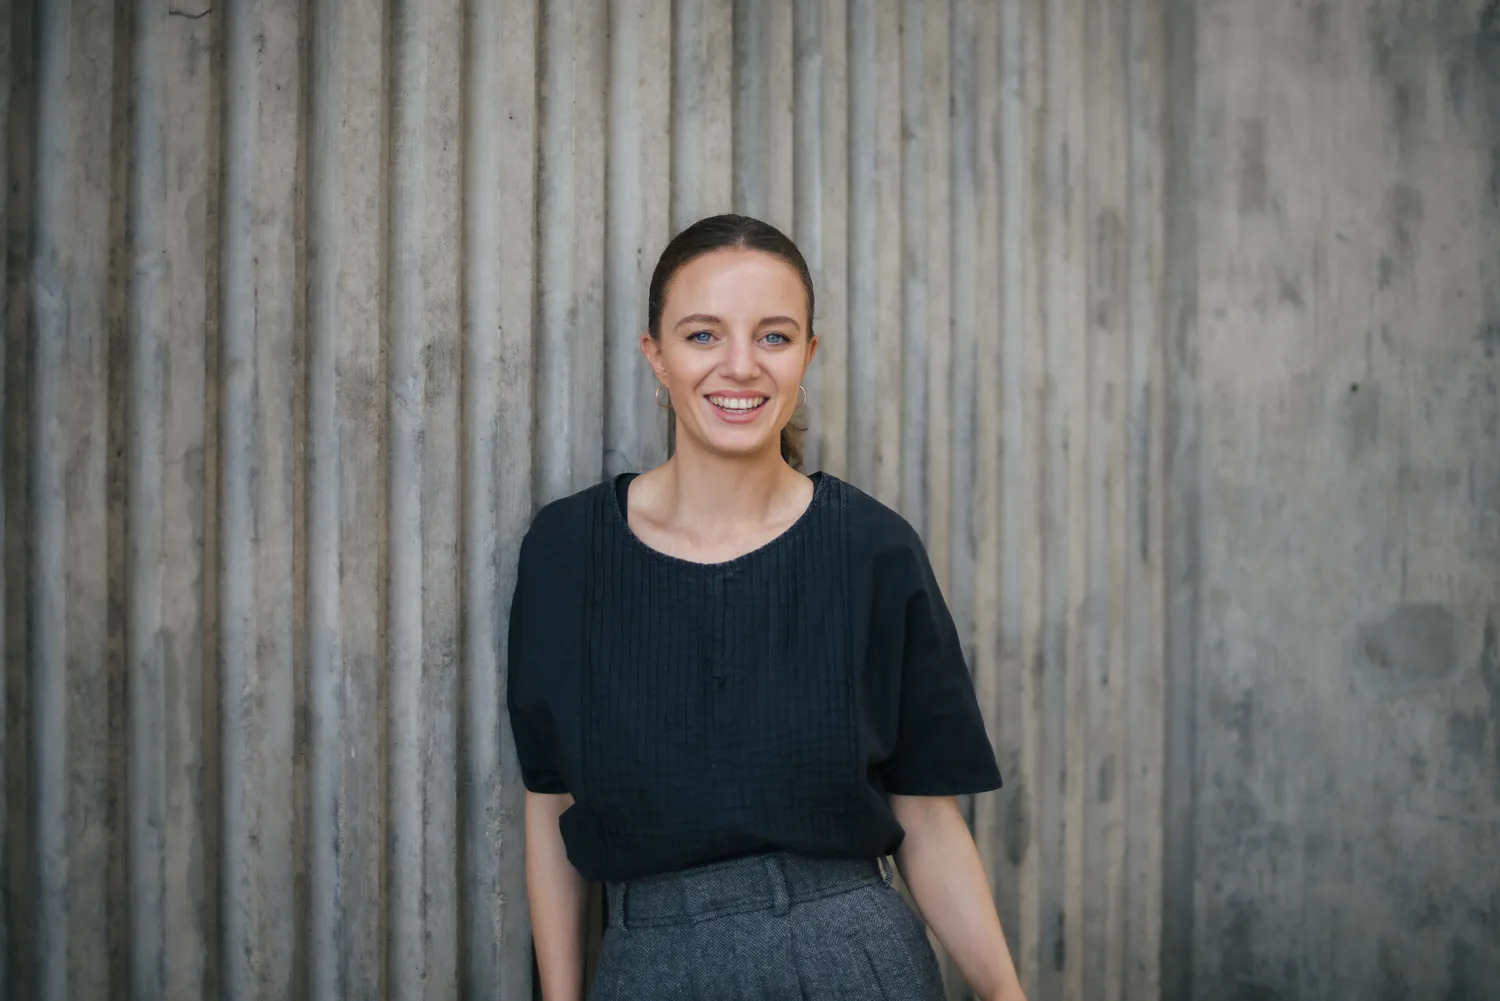
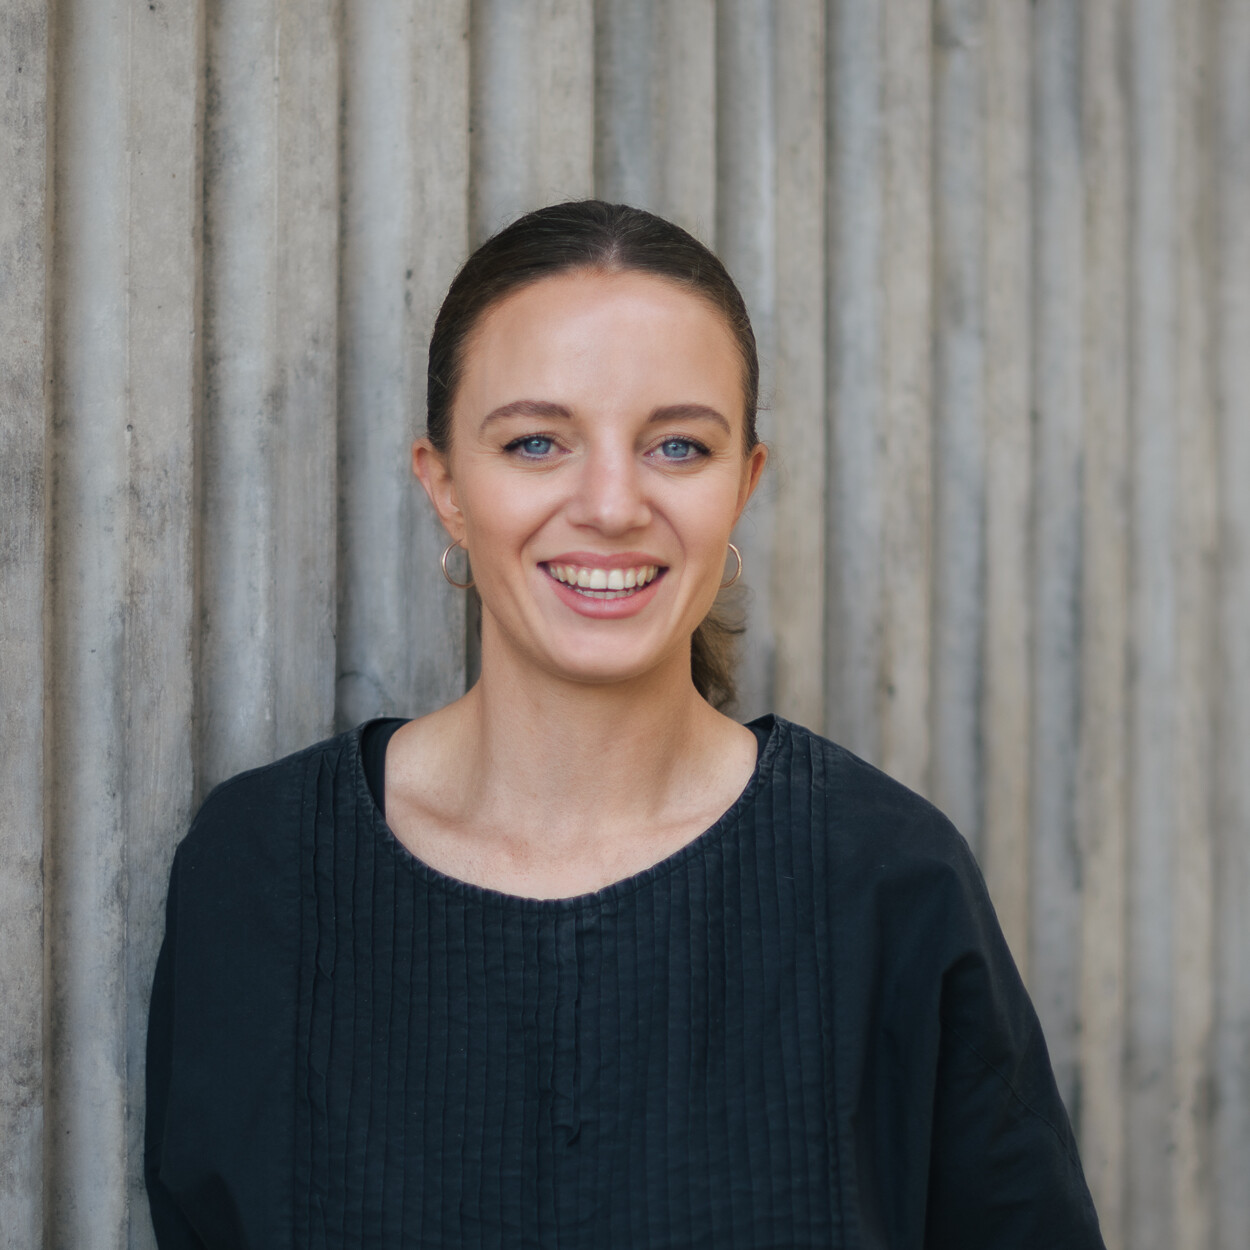
pruned back profiles

diff --git a/content/people/hugh/index.md b/content/people/hugh/index.md
@@ -3,29 +3,13 @@ title: "Hugh Tennent"
 date: 2026-09-16
 ---
 
-Hugh Tennent FNZIA studied architecture at the University of Auckland,
-graduating in 1984, and was made a Fellow of Te Kāhui Whaihanga / the New
-Zealand Institute of Architects in 2001. In 2003 he and Ewan Brown founded
-[Tennent Brown Architects](https://tennentbrown.co.nz/) in Te Whanganui-a-Tara,
-a practice built on equity and social justice that works across ngā motu on
-large public and commercial projects.
+Architect and design director at [Tennent Brown Architects](https://tennentbrown.co.nz/),
+Te Whanganui-a-Tara. Joint recipient, with Ewan Brown, of the 2024 Te Kāhui
+Whaihanga NZIA Gold Medal.
 
-Hugh is design director for the practice, responsible for the design direction
-of all its major projects and recognised for his responsiveness to context and
-environment. He is particularly known for work across cultures and for te ao
-Māori — Pā Reo at Te Wānanga o Raukawa, Te Kura Whenua for Ngāi Tūhoe at
-Waikaremoana, Ngā Mokopuna at Te Herenga Waka — as well as education,
-reflective and religious space, and sports buildings. He lectures, tutors and
-critiques regularly at the Victoria University of Wellington School of
-Architecture.
+Profile: [ArchitectureNow](https://architecturenow.co.nz/contributors/Tennent-Hugh/) ·
+[2024 Gold Medal citation, Te Kāhui Whaihanga NZIA](https://www.nzia.co.nz/awards/gold-medal/2024-gold-medal-hugh-tennent-and-ewan-brown/)
 
-In 2024 Hugh and Ewan were jointly awarded the NZIA Gold Medal, the Institute's
-highest honour, for a body of work spanning 22 years and 75 NZIA awards, and
-for leading a practice at the vanguard of radical sustainability and bicultural
-collaboration. Tennent Brown was the first Aotearoa practice to obtain a JUST
-label for social justice (2018) and the first to achieve B Corp certification
-(2022).
-
-*Photo: Catherine Cattanach, via [Te Kāhui Whaihanga NZIA — 2024 Gold Medal](https://www.nzia.co.nz/awards/gold-medal/2024-gold-medal-hugh-tennent-and-ewan-brown/)
-(cropped from a portrait of both recipients; identified per
-[ArchitectureNow](https://architecturenow.co.nz/articles/joining-forces-for-good/)).*
+*Photo: Catherine Cattanach, via [Te Kāhui Whaihanga NZIA](https://www.nzia.co.nz/awards/gold-medal/2024-gold-medal-hugh-tennent-and-ewan-brown/)
+— cropped from a portrait of both Gold Medal recipients; left/right identified per
+[ArchitectureNow](https://architecturenow.co.nz/articles/joining-forces-for-good/).*

diff --git a/content/people/ewan/index.md b/content/people/ewan/index.md
@@ -3,27 +3,13 @@ title: "Ewan Brown"
 date: 2026-09-16
 ---
 
-Ewan Brown FNZIA is a director of
-[Tennent Brown Architects](https://tennentbrown.co.nz/), the Te
-Whanganui-a-Tara practice he founded with Hugh Tennent in 2003. His leadership
-has propelled the practice into becoming a sustainability innovator: Tennent
-Brown was the first Aotearoa practice to obtain a JUST label for social justice
-(2018), a founding member of The Diversity Agenda, and the first architecture
-practice in the country to achieve B Corp certification (2022).
+Architect and director at [Tennent Brown Architects](https://tennentbrown.co.nz/),
+Te Whanganui-a-Tara. Joint recipient, with Hugh Tennent, of the 2024 Te Kāhui
+Whaihanga NZIA Gold Medal.
 
-Ewan has driven the practice's work under the Living Building Challenge — one
-of the world's most demanding sustainability standards — on projects including
-Te Wharehou o Waikaremoana, Pā Reo and Te Kāhui Tapuwae / The Living Pā,
-building a repository of LBC-compliant material knowledge along the way. In
-association with Hugh Tennent, his collaborative efforts push boundaries and
-reshape industry standards, guiding projects toward community wellbeing,
-environmental harmony and carbon neutrality.
+Profile: [Tennent Brown](https://tennentbrown.co.nz/news/ewan-brown-presidents-award) ·
+[2024 Gold Medal citation, Te Kāhui Whaihanga NZIA](https://www.nzia.co.nz/awards/gold-medal/2024-gold-medal-hugh-tennent-and-ewan-brown/)
 
-In 2024 Ewan and Hugh were jointly awarded the NZIA Gold Medal, Te Kāhui
-Whaihanga's highest honour, recognising 22 years of practice, 75 NZIA awards,
-and their role as early adopters and risk takers in the profession's response
-to the climate crisis.
-
-*Photo: Catherine Cattanach, via [Te Kāhui Whaihanga NZIA — 2024 Gold Medal](https://www.nzia.co.nz/awards/gold-medal/2024-gold-medal-hugh-tennent-and-ewan-brown/)
-(cropped from a portrait of both recipients; identified per
-[ArchitectureNow](https://architecturenow.co.nz/articles/joining-forces-for-good/)).*
+*Photo: Catherine Cattanach, via [Te Kāhui Whaihanga NZIA](https://www.nzia.co.nz/awards/gold-medal/2024-gold-medal-hugh-tennent-and-ewan-brown/)
+— cropped from a portrait of both Gold Medal recipients; left/right identified per
+[ArchitectureNow](https://architecturenow.co.nz/articles/joining-forces-for-good/).*

diff --git a/content/people/emily-newmarch/index.md b/content/people/emily-newmarch/index.md
@@ -3,27 +3,9 @@ title: "Dr Emily Newmarch"
 date: 2026-09-16
 ---
 
-Dr Emily Newmarch is Sustainability Lead and Low Carbon Design Specialist at
-[Warren and Mahoney](https://wam.studio/), where she works as a translator
-between technical sustainability data and the creative opportunities that are
-best for a project. She holds a PhD in embodied carbon from Te Herenga Waka
-Victoria University of Wellington, and helped develop the practice's *Go Zero*
-low carbon design guide.
+Sustainability Lead and Low Carbon Design Specialist at
+[Warren and Mahoney](https://wam.studio/).
 
-In 2025 Emily was awarded the overall Supreme Award at the Property Council New
-Zealand People Awards in recognition of her impact in translating PhD-level
-climate research into practical low-carbon design solutions across sectors from
-health to aviation. Selected as the standout achiever across all categories,
-and also recipient of the Young Achiever Award, she is redefining what
-sustainable design leadership looks like in Aotearoa.
+Profile: [Warren and Mahoney](https://wam.studio/people/emily-newmarch)
 
-One of her favourite projects, Te Huhi Raupō — the Taranaki Hospital renal unit
-— is small but packs a big punch: it is set to be among the first in the world
-to achieve Zero Carbon Certification from the International Living Future
-Institute.
-
-> Whilst climate change is our biggest threat, it is also our biggest
-> opportunity to think differently and innovate towards new ways of designing
-> and building.
-
-*Photo: via [Warren and Mahoney](https://wam.studio/people).*
+*Photo: via [Warren and Mahoney](https://wam.studio/people/emily-newmarch).*

diff --git a/content/people/tina/index.md b/content/people/tina/index.md
@@ -3,8 +3,7 @@ title: "Tina Williams"
 date: 2026-09-16
 ---
 
-Tina Williams is a registered architect (NZRAB) based in Te Whanganui-a-Tara
-Wellington, and Chairperson of the Wellington branch of
-[Te Kāhui Whaihanga / the New Zealand Institute of Architects](https://www.nzia.co.nz/about-us/our-structure/).
-In that role she leads the branch committee and the local programme of the
-Aotearoa Festival of Architecture.
+Registered architect in Te Whanganui-a-Tara, and Chairperson of the Wellington
+branch of Te Kāhui Whaihanga / the New Zealand Institute of Architects.
+
+Profile: [Te Kāhui Whaihanga NZIA — Our structure](https://www.nzia.co.nz/about-us/our-structure/)

diff --git a/content/programme/OpenSpace-Conversations/index.md b/content/programme/OpenSpace-Conversations/index.md
@@ -1,5 +1,6 @@
 ---
 title: "OpenSpace Conversations"
+event_type: "Workshop"
 date: "2026-09-19"
 start_time: "14:00"
 end_time: "18:00"
@@ -13,3 +14,5 @@ ticket_tailor_id: "ev_9085059"
 ticket_tailor_series_id: "es_2416088"
 ---
 Are you looking for a way to connect with other people in the community around ideas and actions that could lead to a brighter future for Pōneke? Using Open Space Technology, Clay will run an unconference-type event where you bring the themes and find others to hold conversations with.
+
+Hosts: Clay Joy Smith

diff --git a/content/programme/A-Reality-of-Everything-P-neke-Election-Special/index.md b/content/programme/A-Reality-of-Everything-P-neke-Election-Special/index.md
@@ -9,7 +9,7 @@ end_time: "19:00"
 sign_up_link: "https://www.tickettailor.com/events/criticalsignals/2375777"
 price: "$10 or koha"
 currency: "NZD"
-attendees: 33
+attendees: 34
 capacity: 50
 featureimage: "https://uploads.tickettailorassets.com/c_crop,dpr_1.0,h_476,q_100,w_1500,x_0,y_262/c_scale,g_center,h_373,q_85,w_1172/v1/production/userfiles/dcj3wj3cysyn2jfwlzmn.jpg?_a=BAAHWXDQ"
 ticket_tailor_id: "ev_8953384"
